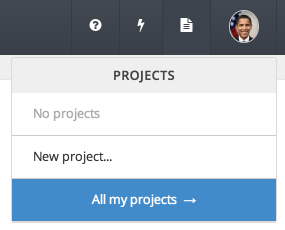
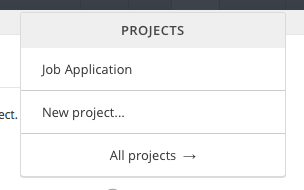
Updating because of dobtco/screendoor-v2#1135

diff --git a/contents/articles/screendoor/projects/my_projects.md b/contents/articles/screendoor/projects/my_projects.md
@@ -1,18 +1,18 @@
 ---
-title: My projects
+title: Your projects
 order: 2
 app_pages:
   - account-projects
 ---
 
-## View all my projects
+## View all projects
 
-To view all of your projects, click the "All my projects" link from the dashboard. From the "My projects" page, you should see a table listing all of your projects along with their current status. You can also view only your watched projects from this same page by selecting "Watched projects" from the menu on the left.
+To view all of your projects, click the "All projects" link from the dashboard. From the "Your projects" page, you should see a table listing all of your projects along with their current status. You can also view only your watched projects from this same page by selecting "Watched projects" from the menu on the left.
 
-![all my projects](../images/all_my_projects.png)
+![All of your projects](../images/all_my_projects.png)
 
 ## Filtering projects
 
 You can search through your projects by typing your search query into the search field above the "My projects" table, on the right-hand side. Hit enter to search.
 
-![my projects](../images/my_projects.png)
+![Your projects](../images/your_projects.png)
